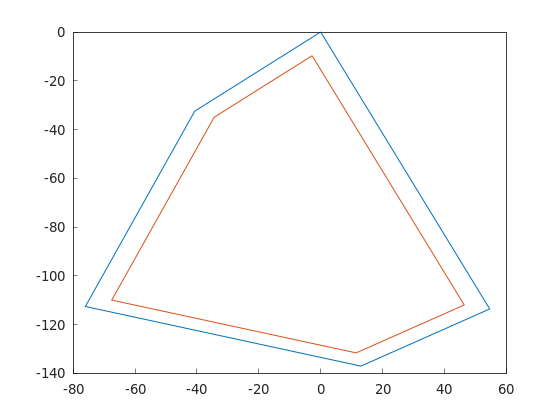
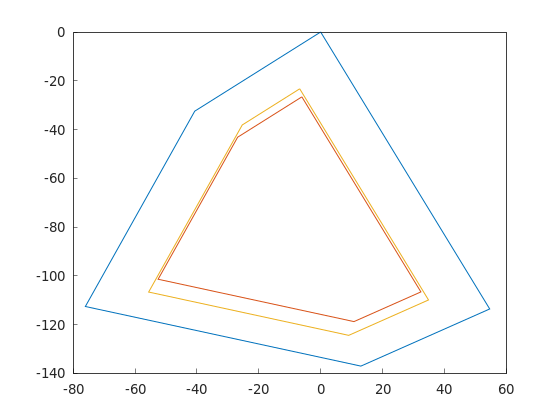
Draw both mainlands so the tutorial figure shows the difference

diff --git a/tutorials/python/3_headland_generator.py b/tutorials/python/3_headland_generator.py
@@ -32,19 +32,21 @@ f2c.Visualizer.save("Tutorial_3_1_Const_width.png");
 
 
 print("####### Tutorial 3.2 Required width headland generator ######");
-robot.setMinTurningRadius(3.0);
+robot.setMinTurningRadius(8.0);
 req_hl = f2c.HG_Req_gen();
 req_no_hl = req_hl.generateHeadlands(cells, robot, f2c.VectorDouble([0.0]));
+const_no_hl = const_hl.generateHeadlands(cells, robot, f2c.VectorDouble([0.0]));
 print("With swaths at 0 rad, the area without headlands is ", req_no_hl.area(),
-    ", while a constant headland leaves ",
-    const_hl.generateHeadlands(cells, robot, f2c.VectorDouble([0.0])).area());
+    ", while a constant headland leaves ", const_no_hl.area());
 
 f2c.Visualizer.figure();
 f2c.Visualizer.plot(field);
+f2c.Visualizer.plot(const_no_hl);
 f2c.Visualizer.plot(req_no_hl);
 f2c.Visualizer.show();
 
 f2c.Visualizer.figure();
 f2c.Visualizer.plot(field);
+f2c.Visualizer.plot(const_no_hl);
 f2c.Visualizer.plot(req_no_hl);
 f2c.Visualizer.save("Tutorial_3_2_Req_width.png");

diff --git a/tutorials/3_headland_generator.cpp b/tutorials/3_headland_generator.cpp
@@ -26,15 +26,17 @@ int main() {
   f2c::Visualizer::save("Tutorial_3_1_Const_width.png");
 
   std::cout << "####### Tutorial 3.2 Required width headland generator ######" << std::endl;
-  robot.setMinTurningRadius(3.0);
+  robot.setMinTurningRadius(8.0);
   f2c::hg::ReqHL req_hl;
   F2CCells req_no_hl = req_hl.generateHeadlands(cells, robot, {0.0});
+  F2CCells const_no_hl = const_hl.generateHeadlands(cells, robot, {0.0});
   std::cout << "With swaths at 0 rad, the area without headlands is " <<
     req_no_hl.area() << ", while a constant headland leaves " <<
-    const_hl.generateHeadlands(cells, robot, {0.0}).area() << std::endl;
+    const_no_hl.area() << std::endl;
 
   f2c::Visualizer::figure();
   f2c::Visualizer::plot(field);
+  f2c::Visualizer::plot(const_no_hl);
   f2c::Visualizer::plot(req_no_hl);
   f2c::Visualizer::save("Tutorial_3_2_Req_width.png");
 

diff --git a/docs/source/tutorials/headland_generator.rst b/docs/source/tutorials/headland_generator.rst
@@ -69,27 +69,30 @@ It takes the robot and one track angle per cell instead of a width.
   .. code-tab:: cpp
     :caption: C++
 
-    robot.setMinTurningRadius(3.0);
+    robot.setMinTurningRadius(8.0);
     f2c::hg::ReqHL req_hl;
     F2CCells req_no_hl = req_hl.generateHeadlands(cells, robot, {0.0});
+    F2CCells const_no_hl = const_hl.generateHeadlands(cells, robot, {0.0});
     std::cout << "With swaths at 0 rad, the area without headlands is " <<
         req_no_hl.area() << ", while a constant headland leaves " <<
-        const_hl.generateHeadlands(cells, robot, {0.0}).area() << std::endl;
+        const_no_hl.area() << std::endl;
 
   .. code-tab:: python
     :caption: Python
 
-    robot.setMinTurningRadius(3.0);
+    robot.setMinTurningRadius(8.0);
     req_hl = f2c.HG_Req_gen();
     req_no_hl = req_hl.generateHeadlands(cells, robot, f2c.VectorDouble([0.0]));
+    const_no_hl = const_hl.generateHeadlands(cells, robot, f2c.VectorDouble([0.0]));
     print("With swaths at 0 rad, the area without headlands is ", req_no_hl.area(),
-        ", while a constant headland leaves ",
-        const_hl.generateHeadlands(cells, robot, f2c.VectorDouble([0.0])).area());
+        ", while a constant headland leaves ", const_no_hl.area());
 
-*With swaths at 0 rad, the area without headlands is 7696.32, while a constant headland leaves 7356.33*
+*With swaths at 0 rad, the area without headlands is 4958.6, while a constant headland leaves 4261.26*
 
 
 .. image:: ../../figures/Tutorial_3_2_Req_width.png
 
 
-On orange it is ``cells`` and in green it is ``req_no_hl``
+In blue it is ``cells``, in orange ``const_no_hl`` and in yellow ``req_no_hl``.
+The borders the swaths end on keep the whole headland, so both mainlands meet
+there, while the borders they run along give theirs back.
